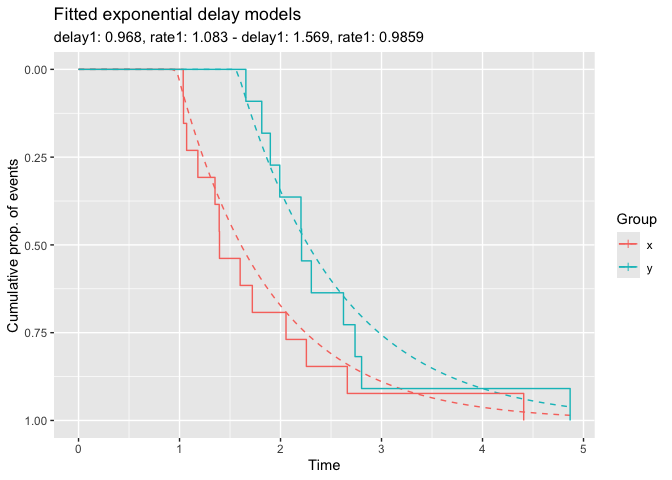
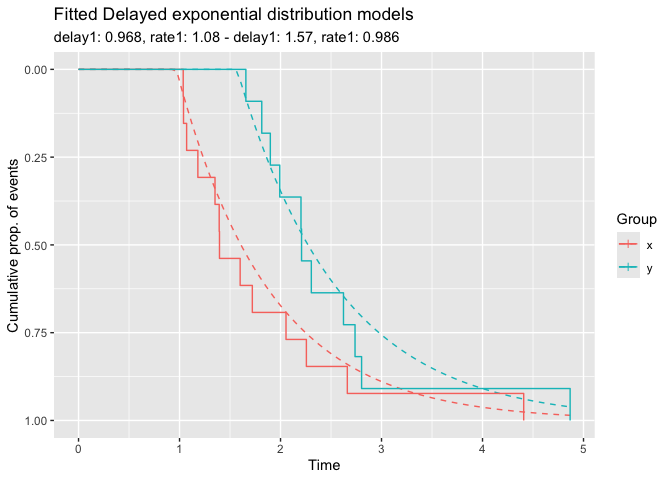
documentation: add examples, mark GOF-tests as experimental, bump version

Changed region(s): [[0.1562, 0.0, 0.625, 0.0938]]

diff --git a/README.md b/README.md
@@ -4,6 +4,7 @@
 # incubate package
 
 <!-- badges: start -->
+
 <!-- badges: end -->
 
 In survival analysis, events sometimes only start to occur after a
@@ -14,11 +15,11 @@ process the estimation of delay via standard maximum likelihood is
 severely biased in small samples. The R-package `incubate` employs an
 alternative estimation method called *maximum product of spacings
 estimation (MPSE)* to estimate and test delay and other parameters in a
-one or two group setting. Concretely, building on MPSE, `incubate` can
+one or two group setting. Concretely, employing MPSE, `incubate` will
 
-1.  fit parameter estimates where certain parameters can be constrained
-    to be shared between both groups
-2.  calculate bootstrap confidence intervals for these model parameters
+1.  fit parameter estimates for one or two groups. Certain parameters
+    can be constrained to be shared between both groups.
+2.  calculate bootstrap confidence intervals for these model parameters,
     *and*
 3.  compare the survival experience of two groups within this
     statistical model with respect to model parameters.
@@ -26,8 +27,8 @@ one or two group setting. Concretely, building on MPSE, `incubate` can
 ## Example
 
 The `incubate`-package provides the delayed exponential distribution as
-special case of the delayed Weibull distribution. We draw random samples
-corresponding to two groups with different model parameters.
+a special case of the delayed Weibull distribution. We draw random
+samples corresponding to two groups with different model parameters.
 
 ``` r
 library("incubate")
@@ -37,7 +38,7 @@ x <- rexp_delayed(n = 13, delay1 = 1.0, rate1 = 0.8)
 y <- rexp_delayed(n = 11, delay1 = 1.5, rate1 = 1.2)
 ```
 
-We use the model function `delay_model` to fit a exponential model with
+We use the model function `delay_model` to fit an exponential model with
 delay to both groups and show the model fit.
 
 ``` r
@@ -46,7 +47,7 @@ fm <- delay_model(x, y)
 plot(fm)
 ```
 
-<img src="man/figures/README-example_fit-1.png" width="60%" style="display: block; margin: auto;" />
+<img src="man/figures/README-example_fit-1.png" alt="" width="60%" style="display: block; margin: auto;" />
 
 Inference on the model parameters is possible through `confint` for
 bootstrap confidence intervals and `delay_test` for parameter
@@ -56,8 +57,8 @@ comparisons in a two group setting.
 # confidence interval for delay-parameters
 confint(fm, parm = c('delay1.x', 'delay1.y'))
 #>               2.5%    97.5%
-#> delay1.x 0.8060091 1.094329
-#> delay1.y 1.3504833 1.753120
+#> delay1.x 0.8060255 1.094318
+#> delay1.y 1.3505059 1.753099
 
 # test on difference in delay
 # for real applications use R>=1000 bootstrap draws
@@ -65,15 +66,15 @@ delay_test <- test_diff(x, y, R = 100)
 plot(delay_test)
 ```
 
-<img src="man/figures/README-example_inf-1.png" width="60%" style="display: block; margin: auto;" />
+<img src="man/figures/README-example_inf-1.png" alt="" width="60%" style="display: block; margin: auto;" />
 
 ## Parallel computation
 
 To switch on parallel computation, e.g. for bootstrap parameter tests or
 power simulations, simply set up a suitable computation plan via the
-Future-API. For instance, do the following to activate four R-sessions
-in the background of your local computer for computer-intensive tasks in
-`incubate`:
+`future`-framework. For instance, do the following to activate four
+R-sessions in the background of your local computer for
+computer-intensive tasks in `incubate`:
 
 ``` r
 library("future")
@@ -81,9 +82,9 @@ plan(multisession, workers = 4)
 ```
 
 That’s it. You do *not* have to change any function calls as `incubate`
-is `future`-aware. Consult the documentation of the [`future`-package on
-CRAN](https://CRAN.R-project.org/package=future) for more information
-about this framework and its supported computation plans.
+is `future`-aware. Consult the documentation of the [futureverse
+website](https://www.futureverse.org/) for more information about this
+framework and its supported computation plans.
 
 When you are done with the heavy computing, it is best practice to
 release the parallel connections via `plan(sequential)`.
@@ -95,7 +96,7 @@ The `incubate` package is found on
 happens at [Gitlab](https://gitlab.com/imb-dev/incubate).
 
 Use R’s standard `install.packages` to install `incubate` from CRAN as
-usual, i.e., `install.packages("incubate")` should do.
+usual, i.e. `install.packages("incubate")` should do.
 
 To install its **latest version** from the main branch on Gitlab use the
 following R-code:
@@ -105,10 +106,10 @@ remotes::install_gitlab("imb-dev/incubate")
 ```
 
 To install a specific version, add the version tag after the name,
-separated by a `@`, e.g. to install `incubate` in version `v1.1.9` use
+separated by a `@`, e.g. to install `incubate` in version `v1.3.0` use
 
 ``` r
-remotes::install_gitlab("imb-dev/incubate@v1.1.9")
+remotes::install_gitlab("imb-dev/incubate@v1.3.0")
 ```
 
 The suffix `@develop` points to the latest **development version** on

diff --git a/NEWS.md b/NEWS.md
@@ -1,5 +1,8 @@
-# incubate 1.3.0.9098
-* allow for random right-censoring
+# incubate 1.4.0.9000
+* current development version
+
+# incubate 1.4.0
+* allow for random right-censoring in the response variable
 * allow for delayed normal distribution as new statistical model
 * weighted MLE (MLEw)
     * bugfix in weight approximation (relevant for W3)
@@ -10,7 +13,7 @@
 * `delay_test`: use name LRT (instead of LR) for likelihood ratio tests
 * new data sets:
     * data set `long2017` from melanoma clinical trial
-    * data set `measles_sailer` with serial interval times of measles 
+    * historic data set `measles_sailer` with serial interval times of measles outbreak on the sailer HMS America from England to Australia in 1829
 
 # incubate 1.3.0
 * implement different maximum-likelihood based estimation methods (naive ML, weighed ML, corrected ML), with option to profile out Weibull's scale-parameter
